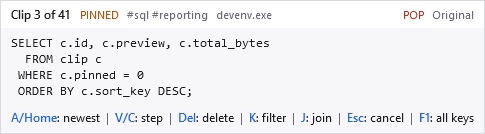
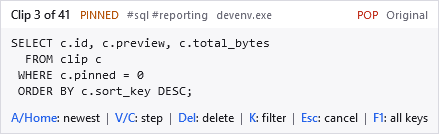
Ship the join key switched off
Reported: J in the overlay's key hint is clutter for an action nobody will
reach for - pasting twice beats marking twice and pasting once. Agreed on the
default; the feature stays, because it is built, tested and free when it is off.

"join" now has a DefaultLetter of null, which is the whole change. That took
making DefaultLetter a char? so "ships with no letter" is expressible, and
teaching SettingsInspector to print (off) in the Default column - otherwise an
action that is off and always has been would read as modified.

No UI code was needed to hide it. ApplyKeyHint already omits any action with no
letter, and the F1 card already shows one as "off" rather than dropping the row,
which is right: the row is what tells a reader the action exists, and this is
now exactly the action they may wonder about. Nor is there a new setting. The
Keys tab's per-action combo already offers (off) and IS the switch; a separate
boolean could express "enabled with no letter", which means nothing. One
control, where the other thirteen live.

The history window's Copy Joined is untouched and never needed a letter. That
is the discoverable half of joining and where anyone who wants this will find
it.

J is a free letter again, for the search box and for the trigger, and the
trigger test now asserts it is offered: switching an action off has to hand its
letter back or the list of free letters only ever shrinks.

One test had to be repointed rather than updated. A_stored_binding_beats_
[…]

diff --git a/docs/help/gesture.html b/docs/help/gesture.html
@@ -55,8 +55,17 @@ Sentence case, Unindent.</td></tr>
 
 <h2>Pasting several clips as one</h2>
 
-<p><code>J</code> marks the clip being shown. Mark as many as you like &mdash; stepping and searching in between
-&mdash; and releasing <code>Ctrl</code> pastes them all as <b>one</b> clip, their text run together.</p>
+<div class="note">
+<p><b>Switched off until you ask for it.</b> Marking clips during the gesture has <b>no key</b> out of the box, so
+nothing below happens and the overlay says nothing about it. Give it one in <a href="settings.html">Settings,
+Keys</a> &mdash; the row is <i>Mark the clip to be pasted joined with the others</i>, and <code>J</code> is free.
+Joining without a key is still there in the <a href="history-window.html">history window</a>, where selecting
+several rows turns Copy into <b>Copy Joined</b>.</p>
+</div>
+
+<p>Once it has a key &mdash; <code>J</code> below &mdash; that key marks the clip being shown. Mark as many as you
+like &mdash; stepping and searching in between &mdash; and releasing <code>Ctrl</code> pastes them all as <b>one</b>
+clip, their text run together.</p>
 
 <table>
 <tr><th>Key</th><th>Action</th></tr>

diff --git a/docs/help/settings.html b/docs/help/settings.html
@@ -135,6 +135,12 @@ case or Unindent.</td></tr>
 take the letter that opens paste mode &mdash; both are refused when you press OK, with the clash named, rather
 than being resolved for you. Swapping two letters over is fine: the check runs once at the end, not as you type.</p>
 
+<p>One action arrives <b>(off)</b>: <i>Mark the clip to be pasted joined with the others</i>. It is the one action
+whose key earned a place in the overlay's hint and then went unused, so it now costs nothing until you want it
+&mdash; give it any free letter here and it behaves exactly as
+<a href="gesture.html">pasting several clips as one</a> describes. Nothing else about joining depends on it: the
+history window joins by selection, with no key at all.</p>
+
 <p>The first row, <b>Step to an older clip</b>, is greyed out. That key both opens the gesture and steps through
 it, so it has its own setting under <b>Paste Mode</b> &mdash; and that one is not adjustable in this release. It
 is listed here anyway because a page naming every paste-mode key while omitting the most important one reads as

diff --git a/docs/index.html b/docs/index.html
@@ -266,8 +266,9 @@ footer a { color: var(--muted); text-decoration: underline; }
             <div class="card">
                 <h3>Join clips into one paste</h3>
                 <p>
-                    Press <kbd>J</kbd> on each clip you want, release, and they arrive as a single paste &mdash;
-                    separator of your choosing. Or select rows in the history window and press Copy.
+                    Select rows in the history window and Copy becomes Copy Joined: they arrive as a single paste,
+                    separator of your choosing. The same during the gesture, for anyone who wants it &mdash; it ships
+                    with no key, so it stays out of the way until you give it a letter.
                 </p>
             </div>
             <div class="card">

diff --git a/src/PasteJump.Core/PasteMode/PasteKeyMap.cs b/src/PasteJump.Core/PasteMode/PasteKeyMap.cs
@@ -27,7 +27,17 @@ public sealed class PasteKeyMap
     /// renaming an enum member would then silently orphan everyone's saved binding.
     /// </param>
     /// <param name="Description">What it does, for the settings dialog and the key card.</param>
-    /// <param name="DefaultLetter">Today's letter, which is what a fresh install and a Reset get.</param>
+    /// <param name="DefaultLetter">
+    /// Today's letter, which is what a fresh install and a Reset get - or <c>null</c> for an action that ships
+    /// switched off, available to anyone who wants it and costing nothing to anyone who does not.
+    /// <para>
+    /// Only "mark to join" is null, and deliberately. Its letter was in the overlay's key hint, in the F1 card and
+    /// in the way of a letter someone might type into search, in exchange for an action most people will never
+    /// use: pasting twice is quicker than marking twice and pasting once. Off by default is not the feature being
+    /// withdrawn - the Keys tab turns it on like any other letter, and the history window's Copy Joined never
+    /// needed a letter at all.
+    /// </para>
+    /// </param>
     /// <param name="FixedAlias">
     /// A key that fires the action regardless of the letter, shown read-only. This is how nothing that already
     /// works stops working: rebinding pin from <c>P</c> to <c>K</c> leaves <c>Space</c> pinning, and moving
@@ -37,7 +47,7 @@ public sealed class PasteKeyMap
         PasteAction Action,
         string Name,
         string Description,
-        char DefaultLetter,
+        char? DefaultLetter,
         string? FixedAlias = null);
 
     /// <summary>
@@ -53,7 +63,9 @@ public sealed class PasteKeyMap
         new(PasteAction.JumpToNewest, "newest", "Jump to the newest clip", 'A', "Home"),
         new(PasteAction.ToggleSearch, "search", "Open search", 'F'),
         new(PasteAction.TogglePin, "pin", "Pin or unpin the clip", 'P', "Space"),
-        new(PasteAction.ToggleJoinMark, "join", "Mark the clip to be pasted joined with the others", 'J'),
+        // Off by default - see DefaultLetter. Turning it on is picking any free letter in the Keys tab, whose combo
+        // already offers "(off)" as an item; J is simply what it used to be and is still free.
+        new(PasteAction.ToggleJoinMark, "join", "Mark the clip to be pasted joined with the others", null),
         new(PasteAction.PromoteToFront, "front", "Move the clip to the front of the stack", 'M', "Q"),
         new(PasteAction.CycleFormatter, "format", "Cycle the paste format", 'Z'),
         new(PasteAction.CycleKindFilter, "kind", "Show only one kind of clip: all, text, images, files", 'K'),
@@ -230,7 +242,10 @@ public sealed class PasteKeyMap
         // This exists because of what happens when an action is ADDED. "Mark to join" arrived with a default of J,
         // which was free - but free is not the same as unused: anyone who had moved pin to J would have had it
         // silently taken away, since Rebuild lets the later entry win. Nothing that works may stop working, so the
-        // new action starts off instead, visible as "Off" in the Keys tab where it can be given a free letter.
+        // new action starts off instead, visible as "(off)" in the Keys tab where it can be given a free letter.
+        //
+        // Join itself no longer needs this - it ships with no letter at all now - but the next added action will,
+        // and this is the only thing standing between it and someone's existing configuration.
         //
         // Only when there IS a stored string: a fresh install has no explicit bindings and its defaults do not
         // clash with each other.

diff --git a/tests/PasteJump.Core.Tests/PasteKeyMapTests.cs b/tests/PasteJump.Core.Tests/PasteKeyMapTests.cs
@@ -63,9 +63,10 @@ public class PasteKeyMapTests
     {
         var map = PasteKeyMap.Default;
 
-        // J is absent: it is bound to "mark to join". Kept as a literal list rather than derived from the map, so
-        // binding a new action forces a decision here about a letter someone may be typing into search.
-        foreach (var letter in "BDGILNRUWY")
+        // J is in the list because "mark to join" ships switched off, so its letter is typeable like any other
+        // unbound one. Kept as a literal list rather than derived from the map, so binding a new action forces a
+        // decision here about a letter someone may be typing into search.
+        foreach (var letter in "BDGIJLNRUWY")
         {
             Assert.Equal(GestureKey.None, map.ForLetter(letter));
         }
@@ -97,14 +98,19 @@ public class PasteKeyMapTests
     /// of J, which was free - but free is not unused, and anyone who had moved pin to J would otherwise have lost
     /// it silently, since the later entry wins when the table is rebuilt.
     /// </para>
+    /// <para>
+    /// Asserted against <c>pin=Z</c> rather than the historical <c>pin=J</c> on purpose. Join ships with no letter
+    /// now, so a J-based assertion would pass whether or not the guard existed - a test that cannot fail. Z is a
+    /// letter another action really does default to (the format cycle), so this still fails if the guard goes.
+    /// </para>
     /// </summary>
     [Fact]
     public void A_stored_binding_beats_another_action_defaulting_to_the_same_letter()
     {
-        var map = PasteKeyMap.Parse("pin=J");
+        var map = PasteKeyMap.Parse("pin=Z");
 
-        Assert.Equal(GestureKey.TogglePin, map.ForLetter('J'));
-        Assert.Null(map.LetterFor("join"));
+        Assert.Equal(GestureKey.TogglePin, map.ForLetter('Z'));
+        Assert.Null(map.LetterFor("format"));
     }
 
     [Fact]
@@ -112,8 +118,32 @@ public class PasteKeyMapTests
     {
         var map = PasteKeyMap.Default;
 
-        Assert.Equal(GestureKey.ToggleJoinMark, map.ForLetter('J'));
+        Assert.Equal(GestureKey.CycleFormatter, map.ForLetter('Z'));
         Assert.Equal(GestureKey.TogglePin, map.ForLetter('P'));
+    }
+
+    /// <summary>
+    /// Joining ships switched off, and turning it on is an ordinary letter choice.
+    /// <para>
+    /// The reason it is off is not that it is broken: it was reported as clutter, in the overlay's key hint and on
+    /// the card, for an action most people will never want - pasting twice beats marking twice and pasting once.
+    /// Everything behind it still works, which is what this asserts, so "off by default" cannot quietly become
+    /// "removed".
+    /// </para>
+    /// </summary>
+    [Fact]
+    public void Join_ships_switched_off_and_a_letter_turns_it_on()
+    {
+        Assert.False(PasteKeyMap.Default.IsEnabled("join"));
+        Assert.Equal(GestureKey.None, PasteKeyMap.Default.ForLetter('J'));
+
+        var enabled = PasteKeyMap.Parse("join=J");
+
+        Assert.True(enabled.IsEnabled("join"));
+        Assert.Equal(GestureKey.ToggleJoinMark, enabled.ForLetter('J'));
+
+        // Any free letter, not just the one it used to have.
+        Assert.Equal(GestureKey.ToggleJoinMark, PasteKeyMap.Parse("join=G").ForLetter('G'));
     }
 
     [Fact]

diff --git a/tests/PasteJump.Core.Tests/TriggerKeyAndHotkeyTests.cs b/tests/PasteJump.Core.Tests/TriggerKeyAndHotkeyTests.cs
@@ -44,7 +44,8 @@ public sealed class TriggerKeyAndHotkeyTests
     [InlineData('V')]
     [InlineData('B')]
     [InlineData('G')]
-    [InlineData('I')] // 'P' pins, 'K' filters by kind and 'J' marks clips to join, so none of those is free
+    [InlineData('I')] // 'P' pins and 'K' filters by kind, so neither of those is free
+    [InlineData('J')] // free again: marking clips to join ships switched off
     public void An_unbound_letter_is_accepted(char key)
     {
         Assert.True(TriggerKey.IsAvailable(key));
@@ -65,10 +66,13 @@ public sealed class TriggerKeyAndHotkeyTests
         Assert.DoesNotContain('M', TriggerKey.Available); // beside Q, move to front
         Assert.DoesNotContain('P', TriggerKey.Available); // beside Space, pin
 
-        Assert.DoesNotContain('J', TriggerKey.Available); // mark this clip to be pasted joined
+        // J is offered, because "mark to join" ships with no letter. Worth asserting rather than merely allowing:
+        // switching an action off has to hand its letter back, both to the search box and to the trigger, or the
+        // list of free letters would only ever shrink.
+        Assert.Contains('J', TriggerKey.Available);
 
-        // 26 letters minus the 15 bound to an action.
-        Assert.Equal(11, TriggerKey.Available.Count);
+        // 26 letters minus the 14 bound to an action.
+        Assert.Equal(12, TriggerKey.Available.Count);
     }
 
     [Theory]

diff --git a/src/PasteJump.Core/Settings/SettingsInspector.cs b/src/PasteJump.Core/Settings/SettingsInspector.cs
@@ -156,7 +156,10 @@ public static class SettingsInspector
             // "(off)" rather than blank: an action with no letter is a deliberate state, and an empty cell reads as
             // a rendering fault. Same word the Keys tab uses in its combo.
             var current = letter?.ToString() ?? "(off)";
-            var original = entry.DefaultLetter.ToString();
+
+            // Same word for a default of "no letter", which is what "mark to join" ships as: the Default column has
+            // to be able to say "off" too, or an action that is off and has always been off would read as modified.
+            var original = entry.DefaultLetter?.ToString() ?? "(off)";
 
             yield return new SettingRow(
                 $"    {entry.Name} — {entry.Description}",

diff --git a/tests/PasteJump.Core.Tests/SettingsInspectorTests.cs b/tests/PasteJump.Core.Tests/SettingsInspectorTests.cs
@@ -126,7 +126,9 @@ public sealed class SettingsInspectorTests
             var row = rows.SingleOrDefault(r => r.Name.StartsWith($"    {entry.Name} ", StringComparison.Ordinal));
 
             Assert.NotNull(row);
-            Assert.Equal(entry.DefaultLetter.ToString(), row.Value);
+            // "(off)" for an action that ships with no letter - "mark to join" - and the row must still read as
+            // unmodified, which is the case the null default could get wrong.
+            Assert.Equal(entry.DefaultLetter?.ToString() ?? "(off)", row.Value);
             Assert.False(row.IsModified);
         }
     }

diff --git a/CLAUDE.md b/CLAUDE.md
@@ -443,8 +443,25 @@ that immediately caught two real bugs. Expect to do the same again.
   restated by whoever draws the dialog. Note the diagnostic that found this: `clip` had 14 rows against a
   `sqlite_sequence` of 55, and history was intact — `PruneHistoryOlderThan` never touches `clip`, and
   `EvictBeyond` was capped at 1000, so a bulk `DELETE FROM clip WHERE pinned = 0` was the only candidate left.
-- **`J` marks clips during the gesture, and releasing Ctrl pastes every marked clip joined.** The other half of
-  joining. Note the F1 key card's rows are **hand-written XAML** - it says more per action than
+- **Marking clips during the gesture SHIPS SWITCHED OFF (2026-08-13), and that is the user's call, not a bug.**
+  `PasteKeyMap.Entries` gives "join" a `DefaultLetter` of `null`. The complaint was the letter, not the feature:
+  `J: join` in the overlay hint and a row on the card, in exchange for an action their instinct is nobody will use
+  — "they can directly paste na". Worth knowing before reopening it:
+  - **`DefaultLetter` is `char?` now**, so "ships with no letter" is expressible at all. `SettingsInspector` shows
+    `(off)` in the *Default* column for such an action, or a row that is off and always has been reads as modified.
+  - **Nothing was deleted, and nothing needs a second switch.** The overlay hint and `ApplyKeyHint` already omit
+    any action with no letter, so hiding it took no UI code. The Keys tab's per-action combo — which already has
+    `(off)` as an item — *is* the enable/disable control, and adding a separate boolean would allow "enabled with no
+    letter", which means nothing. One control, in the place the other thirteen live.
+  - **The history window's Copy Joined is untouched** and never needed a letter. That is the discoverable half of
+    joining, and it is where a user who wants this will find it.
+  - **`J` is a free letter again** — for the search box and for the trigger. `TriggerKeyAndHotkeyTests` asserts it
+    is offered, because switching an action off has to hand its letter *back* or the free list only ever shrinks.
+  - **One test had to be repointed, not just updated.** `A_stored_binding_beats_another_action_defaulting_to_the
+    _same_letter` used `pin=J`, which now passes whether or not the guard exists. It uses `pin=Z` (the format
+    cycle's default) so it can still fail.
+- **`J`, when it is turned on, marks clips during the gesture and releasing Ctrl pastes every marked clip joined.**
+  The other half of joining. Note the F1 key card's rows are **hand-written XAML** - it says more per action than
   `PasteKeyMap.Description` does - so adding an action means adding a row there too. `J` was added to the map and not
   to the card, and a user reported it; `VerifyKeyCardIsComplete` now compares what the card rendered against
   `PasteKeyMap.Entries` and fails the build instead. It works by recording each name the card asks `Keys` for, so
@@ -470,8 +487,8 @@ that immediately caught two real bugs. Expect to do the same again.
     empty store, and the same reason: silently breaking Ctrl+V is the worst failure this app has.
   - **The overlay shows `JOIN n` and a tick when the current clip is one of them.** Not decoration, for the same
     reason as the kind-filter chip; the tick is separate from the count because the count alone will not say
-    whether pressing `J` again adds this clip or removes it. `J: join` is in the footer hint too, since nothing
-    on screen hints the feature exists until the first clip is marked.
+    whether pressing `J` again adds this clip or removes it. The footer hint lists the letter too — when there is
+    one — since nothing on screen hints the feature exists until the first clip is marked.
   Joining is the **host's** job, not the controller's: it needs each clip's payload text (the store) and the
   separator (a setting), while the controller knows only which clips were chosen. The formatter applies to the
   joined text rather than per clip, so "trim" trims the block — which matches what the overlay says is about to

diff --git a/README.md b/README.md
@@ -23,9 +23,10 @@ needed on the target machine, nothing to install, and nothing beside it.
 
 Two things beyond the jog wheel are worth knowing about up front:
 
-- **Join several clips into one paste.** Press <kbd>J</kbd> on each clip you want during the gesture, or select
-  several rows in the history window, and they paste as *one* clip rather than one after another. Separator of your
-  choosing; images are left out and counted.
+- **Join several clips into one paste.** Select several rows in the history window and Copy becomes *Copy Joined* —
+  they paste as *one* clip rather than one after another, with a separator of your choosing; images are left out and
+  counted. There is a key for doing the same during the gesture, **switched off by default** because most people
+  paste twice rather than mark twice: give it a letter under *Settings → Keys*.
 - **Seventeen themes beyond Light and Dark, and you can write your own.** A theme is a small `.json` file of named colours that inherits
   everything it does not set, so a three-line file is a valid theme. Solarized, Catppuccin, Nord, Dracula, Tokyo
   Night, Monokai, Gruvbox, Kanagawa and more are built in, and the theme applies as you step through the list.
@@ -172,7 +173,7 @@ While Ctrl is down:
 | <kbd>P</kbd> · <kbd>Space</kbd> | Pin / unpin (pinned clips sort first and survive Delete All) |
 | <kbd>M</kbd> · <kbd>Q</kbd> | Move this clip to the front of the stack |
 | <kbd>Z</kbd> | Cycle paste format |
-| <kbd>J</kbd> | Mark this clip; releasing <kbd>Ctrl</kbd> pastes every marked clip joined into one |
+| *(no key)* | Mark this clip; releasing <kbd>Ctrl</kbd> pastes every marked clip joined into one. Off by default — give it a letter under *Settings → Keys* |
 | <kbd>K</kbd> | Show only one kind of clip: all → text → images → files |
 | <kbd>T</kbd> | Edit tags |
 | <kbd>S</kbd> | Put the clip on the Windows clipboard *without* pasting |
